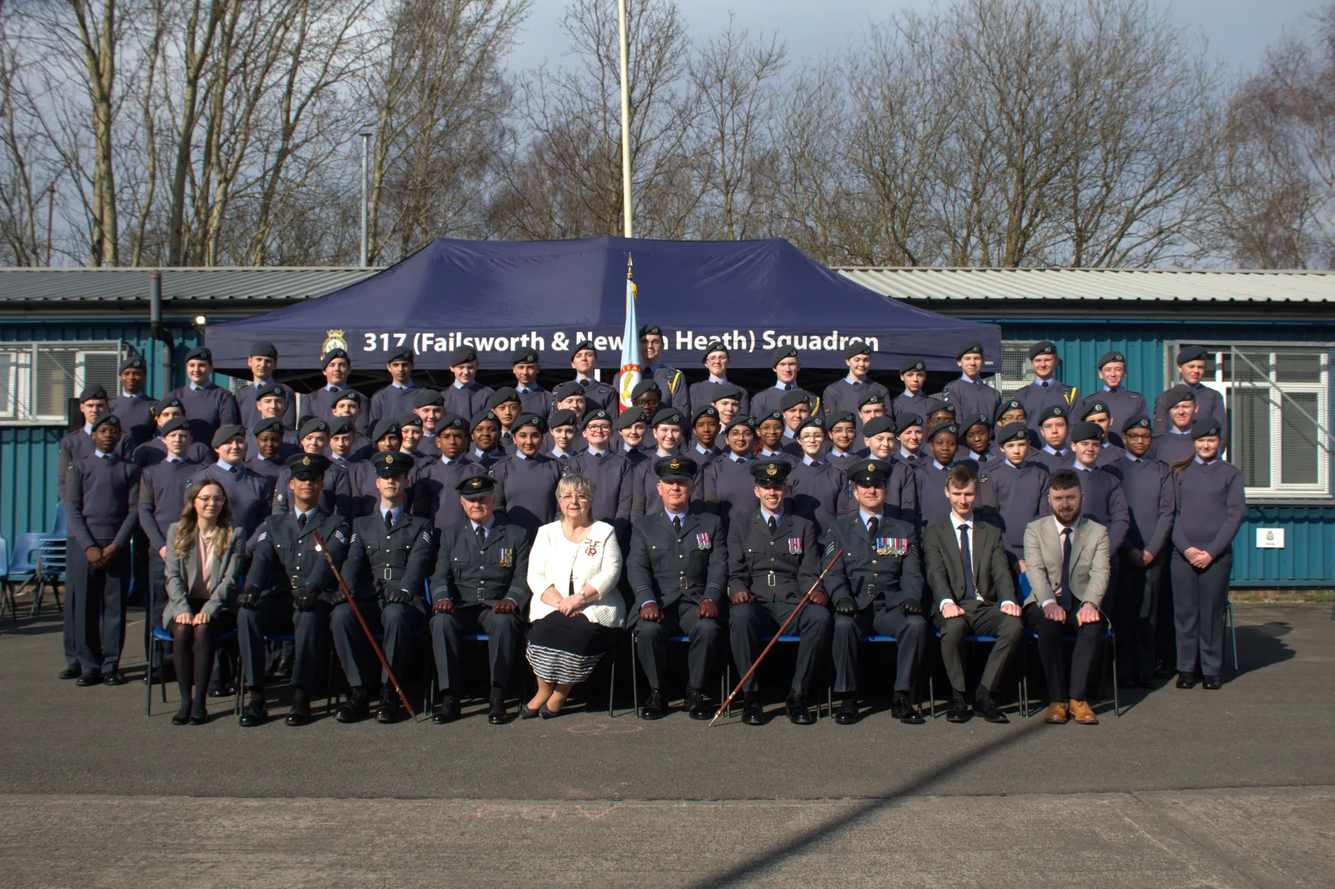
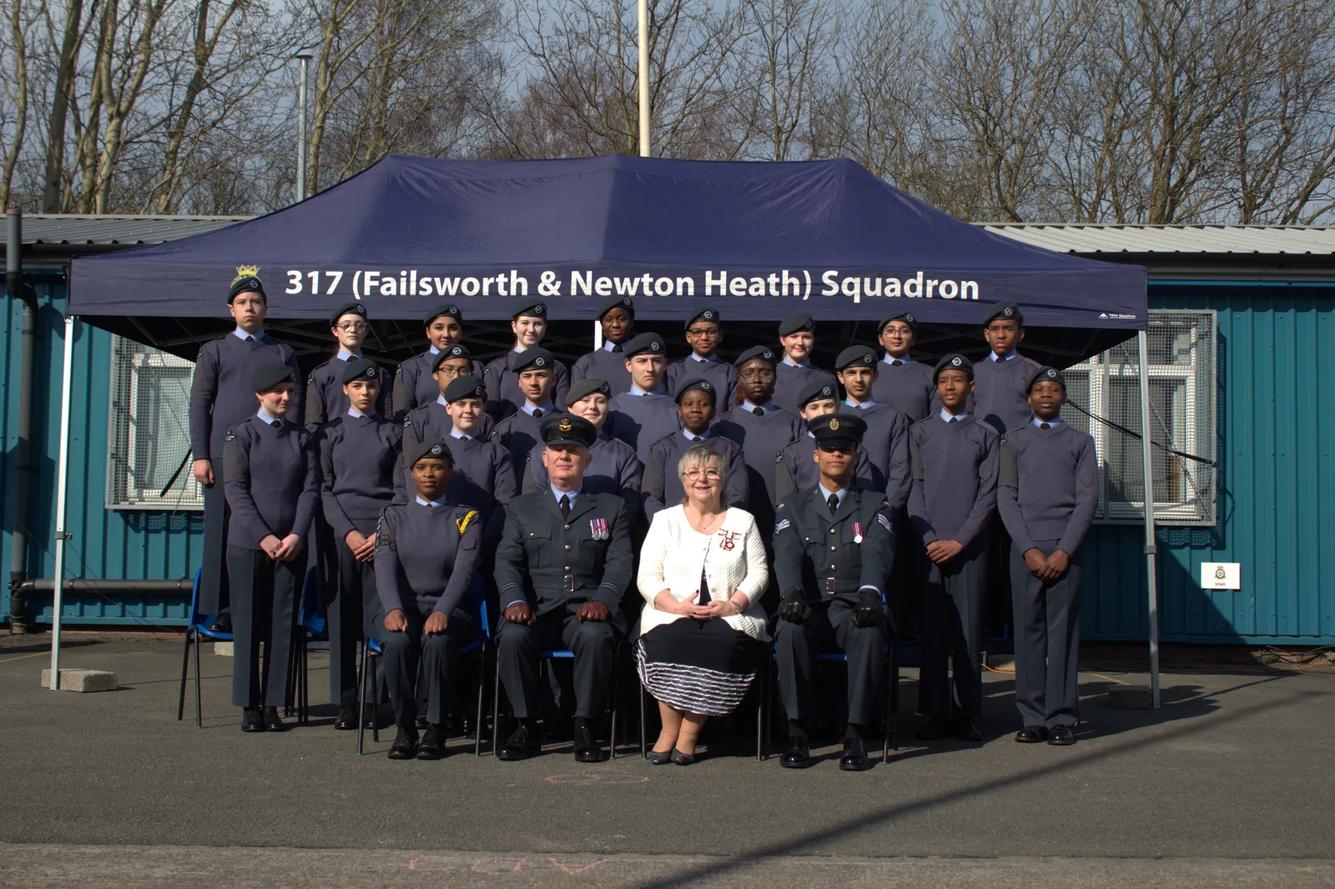
add images

diff --git a/src/data/gallery.js b/src/data/gallery.js
@@ -1,0 +1,49 @@
+// Photos live in src/assets/gallery/. Add a file, then add a line here (category must match one in gallery.jsx).
+const files = import.meta.glob("../assets/gallery/*.webp", { eager: true, import: "default" });
+const src = (name) => files[`../assets/gallery/${name}.webp`];
+
+export const photos = [
+    { cat: "Remembrance", img: src("remembrance-00"), w: 1100, h: 568, alt: "The whole squadron gathered before the Remembrance parade" },
+    { cat: "Remembrance", img: src("remembrance-01"), w: 733, h: 1100, alt: "The squadron standard with its colour party at the Remembrance parade" },
+    { cat: "Remembrance", img: src("remembrance-02"), w: 733, h: 1100, alt: "Snare drummers of the squadron band marching through Failsworth" },
+    { cat: "Remembrance", img: src("remembrance-03"), w: 1100, h: 733, alt: "The band halted in the street with the parade lined up behind" },
+    { cat: "Remembrance", img: src("remembrance-04"), w: 733, h: 1100, alt: "A drummer with the band and parade behind him" },
+    { cat: "Remembrance", img: src("remembrance-05"), w: 733, h: 1100, alt: "The squadron crest on the bass drum" },
+    { cat: "Remembrance", img: src("remembrance-06"), w: 733, h: 1100, alt: "A cadet laying a wreath at the war memorial" },
+    { cat: "Remembrance", img: src("remembrance-07"), w: 733, h: 1100, alt: "Cadets standing by the wreaths at the war memorial" },
+    { cat: "Remembrance", img: src("remembrance-08"), w: 733, h: 1100, alt: "The golden eagle on top of the war memorial" },
+    { cat: "Remembrance", img: src("remembrance-09"), w: 733, h: 1100, alt: "Staff and cadets marching to the memorial" },
+    { cat: "Parades", img: src("parades-10"), w: 1100, h: 732, alt: "Squadron group photograph at the passing out parade" },
+    { cat: "Parades", img: src("parades-11"), w: 1100, h: 733, alt: "The colour party marching on parade" },
+    { cat: "Parades", img: src("parades-12"), w: 1100, h: 733, alt: "Cadets marching behind the squadron flag" },
+    { cat: "Parades", img: src("parades-13"), w: 1100, h: 733, alt: "Cadets marching with arms swinging in time" },
+    { cat: "Parades", img: src("parades-14"), w: 1100, h: 733, alt: "A cadet looks right on the march" },
+    { cat: "Parades", img: src("parades-15"), w: 1100, h: 733, alt: "The reviewing officer is saluted on parade" },
+    { cat: "Parades", img: src("parades-16"), w: 1100, h: 733, alt: "Cadets and staff gathered for the squadron photograph" },
+    { cat: "Parades", img: src("parades-17"), w: 732, h: 1100, alt: "Cutting the cake after the parade" },
+    { cat: "Parades", img: src("parades-18"), w: 824, h: 1100, alt: "A cadet on parade beside the squadron flag" },
+    { cat: "Parades", img: src("parades-19"), w: 619, h: 1100, alt: "The band marching into the hangar for a parade" },
+    { cat: "Band", img: src("band-20"), w: 1100, h: 825, alt: "Drummers rehearsing in the squadron car park" },
+    { cat: "Band", img: src("band-21"), w: 1100, h: 732, alt: "Band members carrying drumsticks across their shoulders" },
+    { cat: "Band", img: src("band-22"), w: 1100, h: 759, alt: "Band members playing at the Lord-Lieutenant's Awards" },
+    { cat: "Band", img: src("band-23"), w: 1100, h: 757, alt: "Drummers marching into the Lord-Lieutenant's Awards" },
+    { cat: "Awards", img: src("awards-24"), w: 1100, h: 752, alt: "Award winners lined up on stage at presentation evening" },
+    { cat: "Awards", img: src("awards-25"), w: 1100, h: 733, alt: "Cadets with their trophies at presentation evening" },
+    { cat: "Awards", img: src("awards-26"), w: 1100, h: 825, alt: "Trophies on display at the dining in night" },
+    { cat: "Awards", img: src("awards-27"), w: 1100, h: 733, alt: "The squadron team with their trophies at a wing competition" },
+    { cat: "Adventure", img: src("adventure-28"), w: 1100, h: 825, alt: "Two cadets with Hawk jets at RAF Leeming" },
+    { cat: "Adventure", img: src("adventure-29"), w: 824, h: 1100, alt: "The cockpit of a Hawk jet" },
+    { cat: "Adventure", img: src("adventure-30"), w: 825, h: 1100, alt: "Cadets with weapons on a camp" },
+    { cat: "Adventure", img: src("adventure-31"), w: 825, h: 1100, alt: "Hands on a trig point at the top of a DofE hill" },
+    { cat: "Adventure", img: src("adventure-32"), w: 825, h: 1100, alt: "A reservoir seen from a moorland DofE route" },
+    { cat: "Adventure", img: src("adventure-33"), w: 1100, h: 619, alt: "Tents pitched on a DofE expedition" },
+    { cat: "Adventure", img: src("adventure-34"), w: 1100, h: 825, alt: "Cadets putting up a basha shelter" },
+    { cat: "Adventure", img: src("adventure-35"), w: 1100, h: 825, alt: "Sheltering under a basha in the woods" },
+    { cat: "Adventure", img: src("adventure-36"), w: 1100, h: 825, alt: "Cadets tying off a shelter on a fieldcraft session" },
+    { cat: "Adventure", img: src("adventure-37"), w: 666, h: 832, alt: "A cadet ready for an air experience flight" },
+    { cat: "Adventure", img: src("adventure-38"), w: 1100, h: 825, alt: "Archery practice in the squadron hall" },
+    { cat: "Sport", img: src("sport-39"), w: 1100, h: 825, alt: "The squadron five-a-side team" },
+    { cat: "Sport", img: src("sport-40"), w: 619, h: 1100, alt: "Playing in goal at a five-a-side competition" },
+    { cat: "Training", img: src("training-41"), w: 1100, h: 825, alt: "Cadets in a group on a training weekend" },
+    { cat: "Training", img: src("training-42"), w: 1100, h: 825, alt: "Cadets on a leadership task at a training weekend" },
+];

diff --git a/src/pages/gallery.jsx b/src/pages/gallery.jsx
@@ -1,0 +1,88 @@
+import { useRef, useState } from "react";
+import { Link } from "react-router-dom";
+import PageHeader from "../components/pageHeader/pageHeader";
+import { photos } from "../data/gallery";
+import { usePageMeta } from "../hooks/usePageMeta";
+
+const categories = ["All", "Remembrance", "Parades", "Band", "Awards", "Adventure", "Sport", "Training"];
+
+function Gallery() {
+    usePageMeta({
+        title: "Photo gallery",
+        description: "Photos of 317 Squadron cadets on parade, in the band, on camps, DofE expeditions and more.",
+    });
+    const [cat, setCat] = useState("All");
+    const [open, setOpen] = useState(null);
+    const dialog = useRef(null);
+
+    const shown = photos.filter((p) => cat === "All" || p.cat === cat);
+    const show = (i) => { setOpen(i); dialog.current?.showModal(); };
+    const step = (d) => setOpen((i) => (i + d + shown.length) % shown.length);
+    const current = shown[open];
+
+    return (
+        <>
+            <PageHeader
+                eyebrow="Squadron life"
+                title="Photo gallery"
+                intro="Parades, the band, camps, expeditions and everything in between."
+            />
+
+            <section className="section bg-surface">
+                <div className="section-container">
+                    <div className="flex flex-wrap gap-2" role="group" aria-label="Filter photos">
+                        {categories.map((c) => (
+                            <button
+                                key={c}
+                                type="button"
+                                aria-pressed={cat === c}
+                                onClick={() => setCat(c)}
+                                className={`rounded-full px-4 py-2 text-sm font-semibold transition-colors ${
+                                    cat === c ? "bg-accent-dark text-white" : "bg-white text-navy ring-1 ring-navy/15 hover:ring-accent"
+                                }`}
+                            >
+                                {c}
+                            </button>
+                        ))}
+                    </div>
+
+                    {/* CSS columns keep portrait and landscape photos at their own shapes */}
+                    <div className="mt-8 columns-2 gap-3 md:columns-3 lg:columns-4">
+                        {shown.map((p, i) => (
+                            <button key={p.img} type="button" onClick={() => show(i)} className="mb-3 block w-full overflow-hidden rounded-lg focus-visible:outline-2 focus-visible:outline-accent">
+                                <img src={p.img} alt={p.alt} width={p.w} height={p.h} loading="lazy" className="h-auto w-full transition-transform duration-300 hover:scale-105" />
+                            </button>
+                        ))}
+                    </div>
+
+                    <p className="mt-10 text-center text-ink/80">
+                        Want to be in the next one? <Link to="/join" className="font-bold text-accent-dark underline">Join us</Link>.
+                    </p>
+                </div>
+            </section>
+
+            <dialog
+                ref={dialog}
+                onClose={() => setOpen(null)}
+                onClick={(e) => e.target === dialog.current && dialog.current.close()}
+                className="m-auto max-h-[92vh] w-[min(96vw,1100px)] rounded-lg bg-navy p-0 text-white backdrop:bg-black/80"
+            >
+                {current && (
+                    <figure>
+                        <img src={current.img} alt={current.alt} className="mx-auto max-h-[78vh] w-auto max-w-full" />
+                        <figcaption className="flex items-center justify-between gap-3 p-3 text-sm">
+                            <span>{current.alt}</span>
+                            <span className="flex shrink-0 gap-2">
+                                <button type="button" onClick={() => step(-1)} aria-label="Previous photo" className="rounded bg-white/10 px-3 py-1 hover:bg-white/20">←</button>
+                                <button type="button" onClick={() => step(1)} aria-label="Next photo" className="rounded bg-white/10 px-3 py-1 hover:bg-white/20">→</button>
+                                <button type="button" onClick={() => dialog.current.close()} className="rounded bg-accent-dark px-3 py-1 font-semibold">Close</button>
+                            </span>
+                        </figcaption>
+                    </figure>
+                )}
+            </dialog>
+        </>
+    );
+}
+
+export default Gallery;

diff --git a/src/App.jsx b/src/App.jsx
@@ -12,6 +12,7 @@ import Join from './pages/join'
 import Contact from './pages/contact'
 import Parents from './pages/parents'
 import Newsletter from './pages/newsletter'
+import Gallery from './pages/gallery'
 import NotFound from './pages/404'
 
 import { Route, Routes } from "react-router-dom"
@@ -39,6 +40,7 @@ function App() {
           <Route path="/parents" element={<Parents/>}/>
           <Route path="/contact" element={<Contact/>}/>
           <Route path="/newsletter" element={<Newsletter/>}/>
+          <Route path="/gallery" element={<Gallery/>}/>
 
           <Route path='*' element={<NotFound />}/>
         </Routes>

diff --git a/src/components/footer/footer.jsx b/src/components/footer/footer.jsx
@@ -19,6 +19,7 @@ const usefulLinks = [
 const internalLinks = [
 	{ to: "/newsletter", label: "Newsletter" },
 	{ to: "/programme", label: "Programme" },
+	{ to: "/gallery", label: "Gallery" },
 ];
 
 const linkClass = "text-white/80 transition-colors hover:text-accent";

diff --git a/src/components/navbar/Navbar.jsx b/src/components/navbar/Navbar.jsx
@@ -5,6 +5,7 @@ import nav_logo from "../../assets/317_logo.webp";
 const aboutLinks = [
 	{ to: "/adult-staff", label: "Adult Staff" },
 	{ to: "/cadet-ncos", label: "Cadet NCO's" },
+	{ to: "/gallery", label: "Gallery" },
 ];
 
 const resourceLinks = [

diff --git a/IMAGE_PLAN.md b/IMAGE_PLAN.md
@@ -1,0 +1,72 @@
+# Photo plan
+
+Selected from `images/` (raw dump, now gitignored). Resized copies are in `src/assets/`.
+
+## Swapped into existing spots
+| Where | New | Source |
+|---|---|---|
+| Home hero (`sqn_photo.webp`) | Squadron group under the 317 gazebo, better light | Pass Out Parades/02-24 (#194) |
+| Home "Drill" card | Cadets marching, arms swinging | Pass Out Parades/02-24 (#174) |
+| Home "Camps" card | Two cadets with Hawk jets at Leeming | Camps/Leeming Super Camp (#6) |
+
+## Kept (current photo is as good or better)
+Flying, Kayaking, Shooting, DofE card, Join banner. The new Flying & Gliding cockpit shot is in the gallery instead. Shooting has only one new photo (portrait, poor).
+
+## New page: /gallery
+Filterable grid + lightbox, 43 photos, 4.3 MB total. Data is `src/data/gallery.js`. To add one: drop a webp in `src/assets/gallery/` and add a line.
+
+| File | Category | Source |
+|---|---|---|
+| remembrance-00.webp | Remembrance | Remembrance:0 |
+| remembrance-01.webp | Remembrance | Remembrance:7 |
+| remembrance-02.webp | Remembrance | Remembrance:9 |
+| remembrance-03.webp | Remembrance | Remembrance:12 |
+| remembrance-04.webp | Remembrance | Remembrance:17 |
+| remembrance-05.webp | Remembrance | Remembrance:3 |
+| remembrance-06.webp | Remembrance | Remembrance:5 |
+| remembrance-07.webp | Remembrance | Remembrance:145 |
+| remembrance-08.webp | Remembrance | Remembrance:124 |
+| remembrance-09.webp | Remembrance | Remembrance:48 |
+| parades-10.webp | Parades | Pass Out Parades:194 |
+| parades-11.webp | Parades | Pass Out Parades:160 |
+| parades-12.webp | Parades | Pass Out Parades:172 |
+| parades-13.webp | Parades | Pass Out Parades:174 |
+| parades-14.webp | Parades | Pass Out Parades:178 |
+| parades-15.webp | Parades | Pass Out Parades:186 |
+| parades-16.webp | Parades | Pass Out Parades:188 |
+| parades-17.webp | Parades | Pass Out Parades:200 |
+| parades-18.webp | Parades | Passing Out Parades:0 |
+| parades-19.webp | Parades | Passing Out Parades:1 |
+| band-20.webp | Band | Band:27 |
+| band-21.webp | Band | Band:22 |
+| band-22.webp | Band | Lord-Lieutenant Awards:31 |
+| band-23.webp | Band | Lord-Lieutenant Awards:29 |
+| awards-24.webp | Awards | Presentation Evening:6 |
+| awards-25.webp | Awards | Presentation Evening:104 |
+| awards-26.webp | Awards | HEIC Dining In Night 2026:4 |
+| awards-27.webp | Awards | Wing Training Day:17 |
+| adventure-28.webp | Adventure | Camps:6 |
+| adventure-29.webp | Adventure | Camps:8 |
+| adventure-30.webp | Adventure | Camps:11 |
+| adventure-31.webp | Adventure | DofE:7 |
+| adventure-32.webp | Adventure | DofE:2 |
+| adventure-33.webp | Adventure | DofE:8 |
+| adventure-34.webp | Adventure | Fieldcraft:3 |
+| adventure-35.webp | Adventure | Fieldcraft:13 |
+| adventure-36.webp | Adventure | Fieldcraft:6 |
+| adventure-37.webp | Adventure | Flying and Gliding:2 |
+| adventure-38.webp | Adventure | Archery:2 |
+| sport-39.webp | Sport | Sports:2 |
+| sport-40.webp | Sport | Sports:3 |
+| training-41.webp | Training | Training Weekends:9 |
+| training-42.webp | Training | Training Weekends:5 |
+
+## Not used, and why
+- **Mine/** (179): mostly distant phone shots of the same parade; no better than Remembrance/Parades.
+- **Cadet Photos** cutout portraits, **Band CR2/GoPro** shots: portraits and selfies, not for a public gallery.
+- **Trips** (Berlin/Poland), **Xmas Quiz, Squid Game, Sqn Shenanigans, Presentation Evening close-ups**: too dark, off-topic or identifiable individuals.
+- **Videos** (.mov/.mp4/.avi/.lrv): not touched. **Battle of Britain** is empty.
+
+## Check before publishing
+- Many photos show under-18s. Check parental photo consent, and delete a line in gallery.js to drop one.
+- Lord-Lieutenant and Presentation shots include non-317 people; only the band shots from LL were used.
